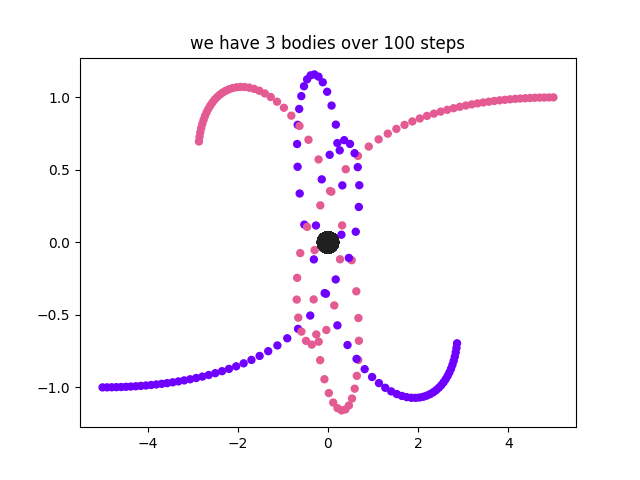
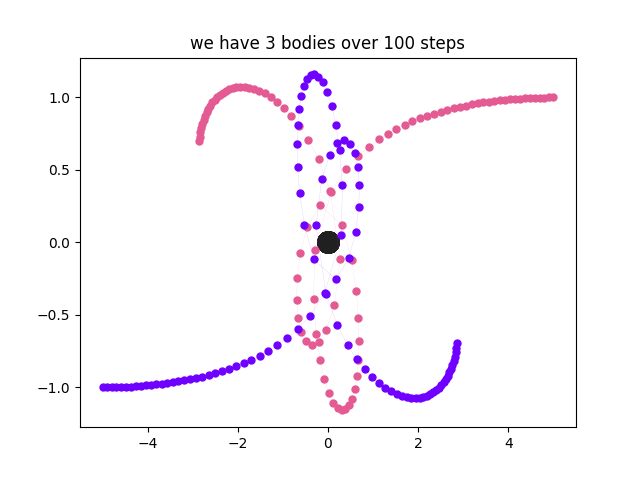
a little nicer n-body draw()

diff --git a/notebooks/numpy-tps/n-body/.teacher/README-n-body-corrige-nb.md b/notebooks/numpy-tps/n-body/.teacher/README-n-body-corrige-nb.md
@@ -319,12 +319,19 @@ def draw(simulation, masses, colors=None, scale=5.):
     # ax.set_aspect('equal')
 
     ax.set_title(f"we have {N} bodies over {nb_steps} steps")
-    for step in range(nb_steps):
+    # looping on bodies, instead of on steps,
+    # so we can also plot each trajectory
+    for body_index, color in enumerate(colors):
+        mass = masses[body_index]
         ax.scatter(
             # the X's and Y's
-            simulation[step, 0, :], simulation[step, 1, :], 
+            simulation[:, 0, body_index], simulation[:, 1, body_index], 
             # marker size is actually an area
-            c=colors, s=(masses*scale)**2,
+            color=color, s=(mass*scale)**2,
+        )
+        ax.plot(
+            simulation[:, 0, body_index], simulation[:, 1, body_index], 
+            color=color, alpha=0.5, linewidth=0.1
         )
     return ax
 ```
